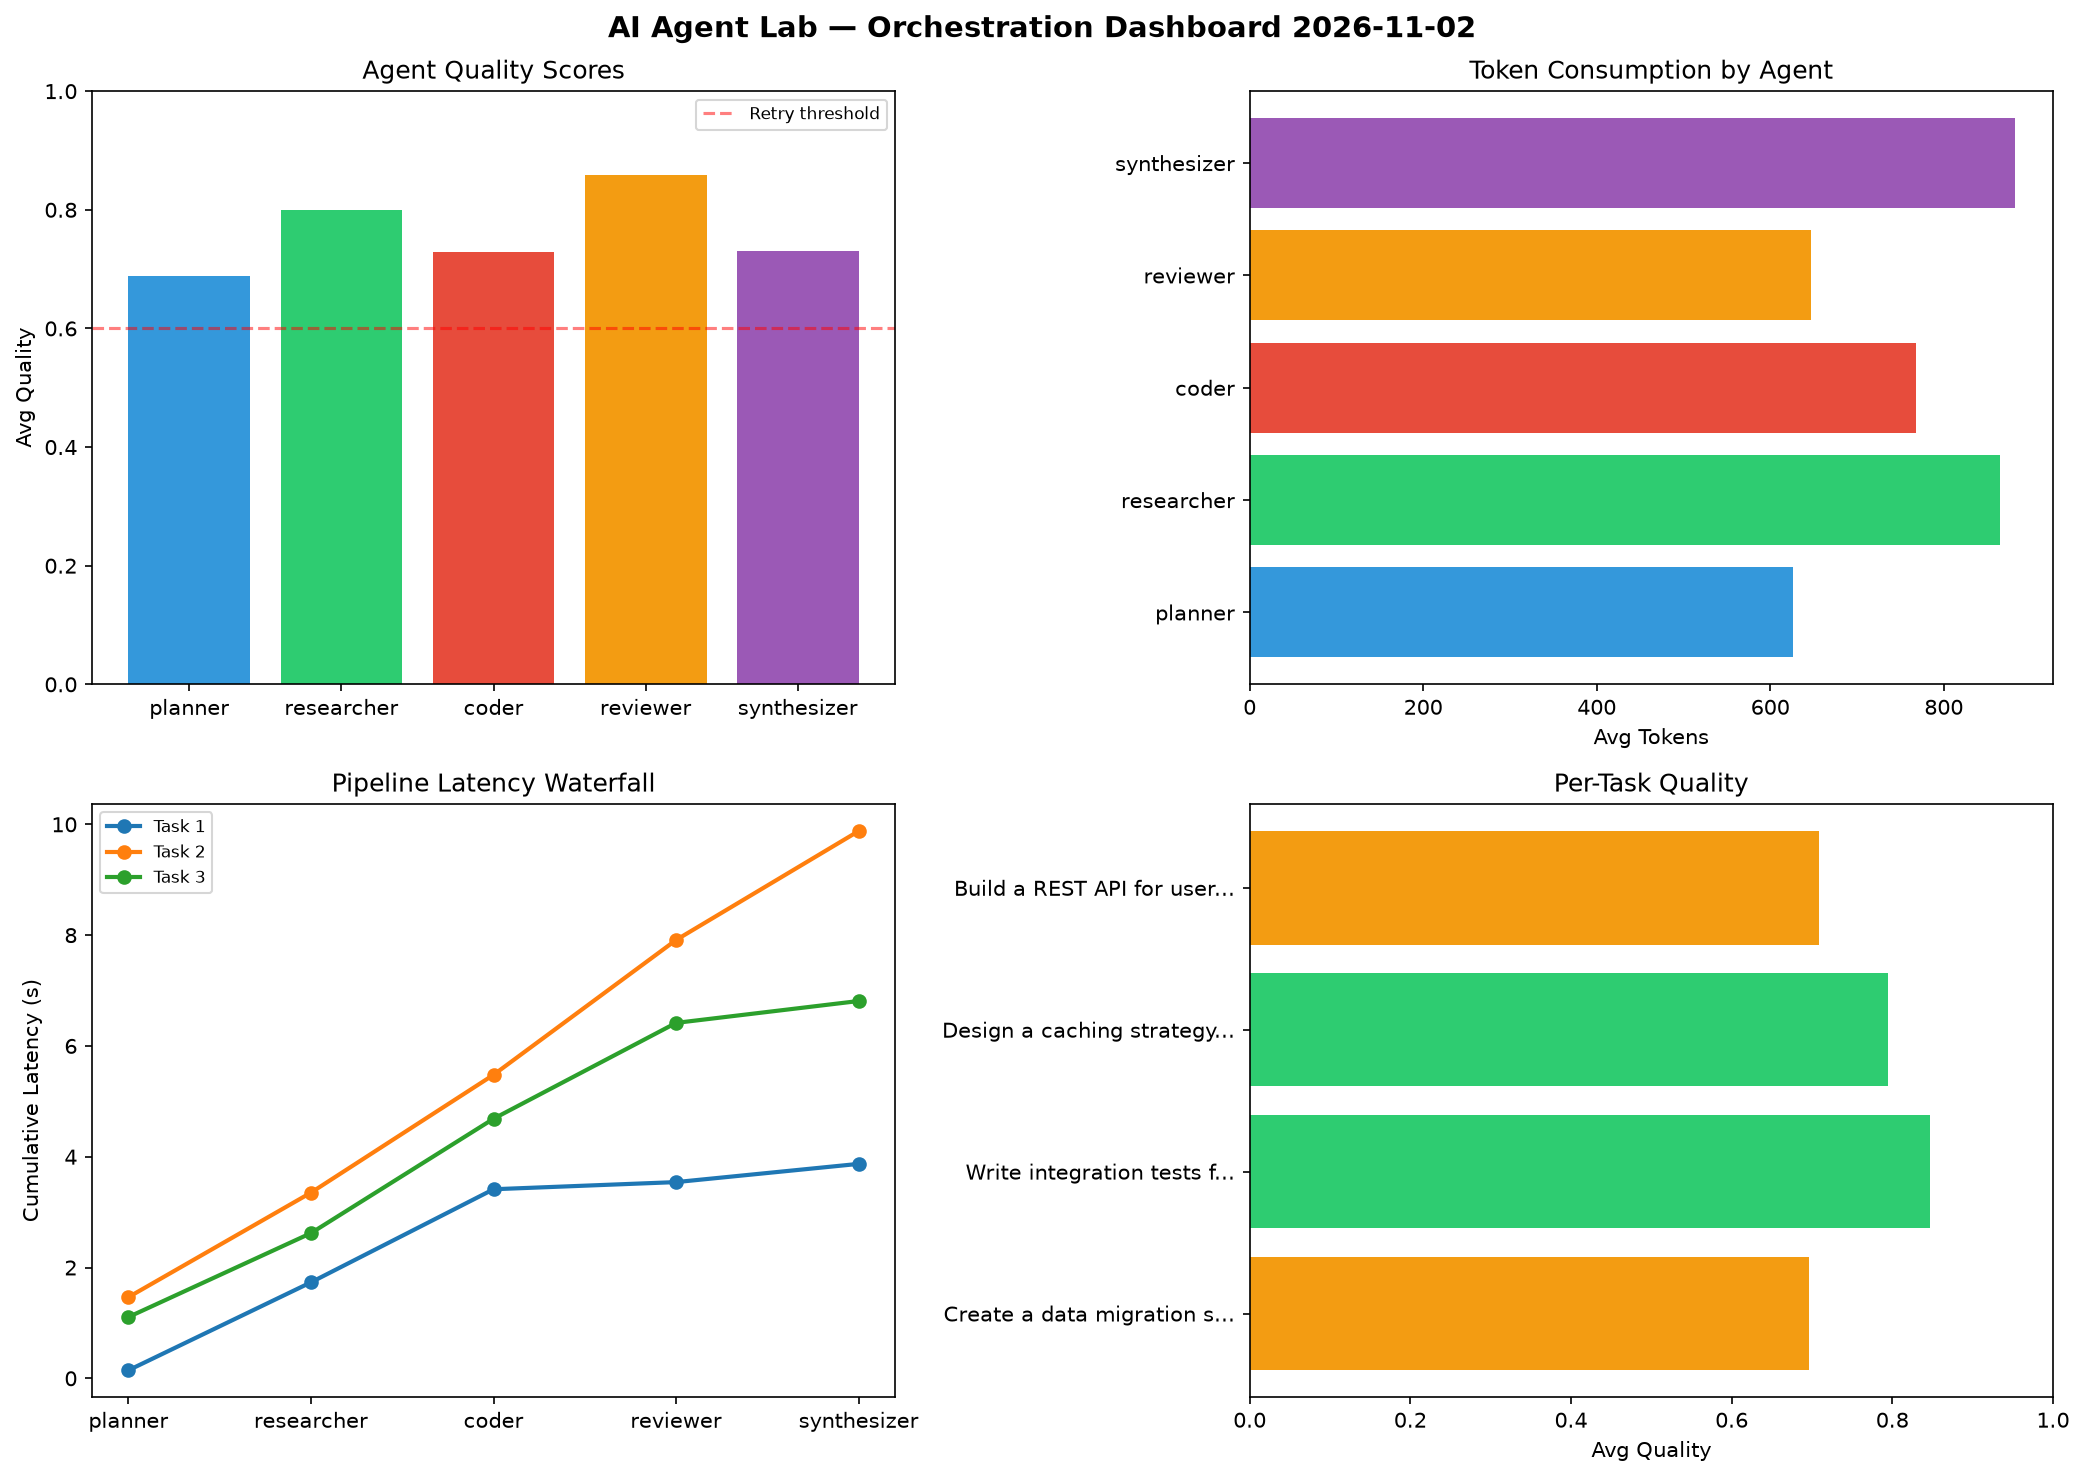
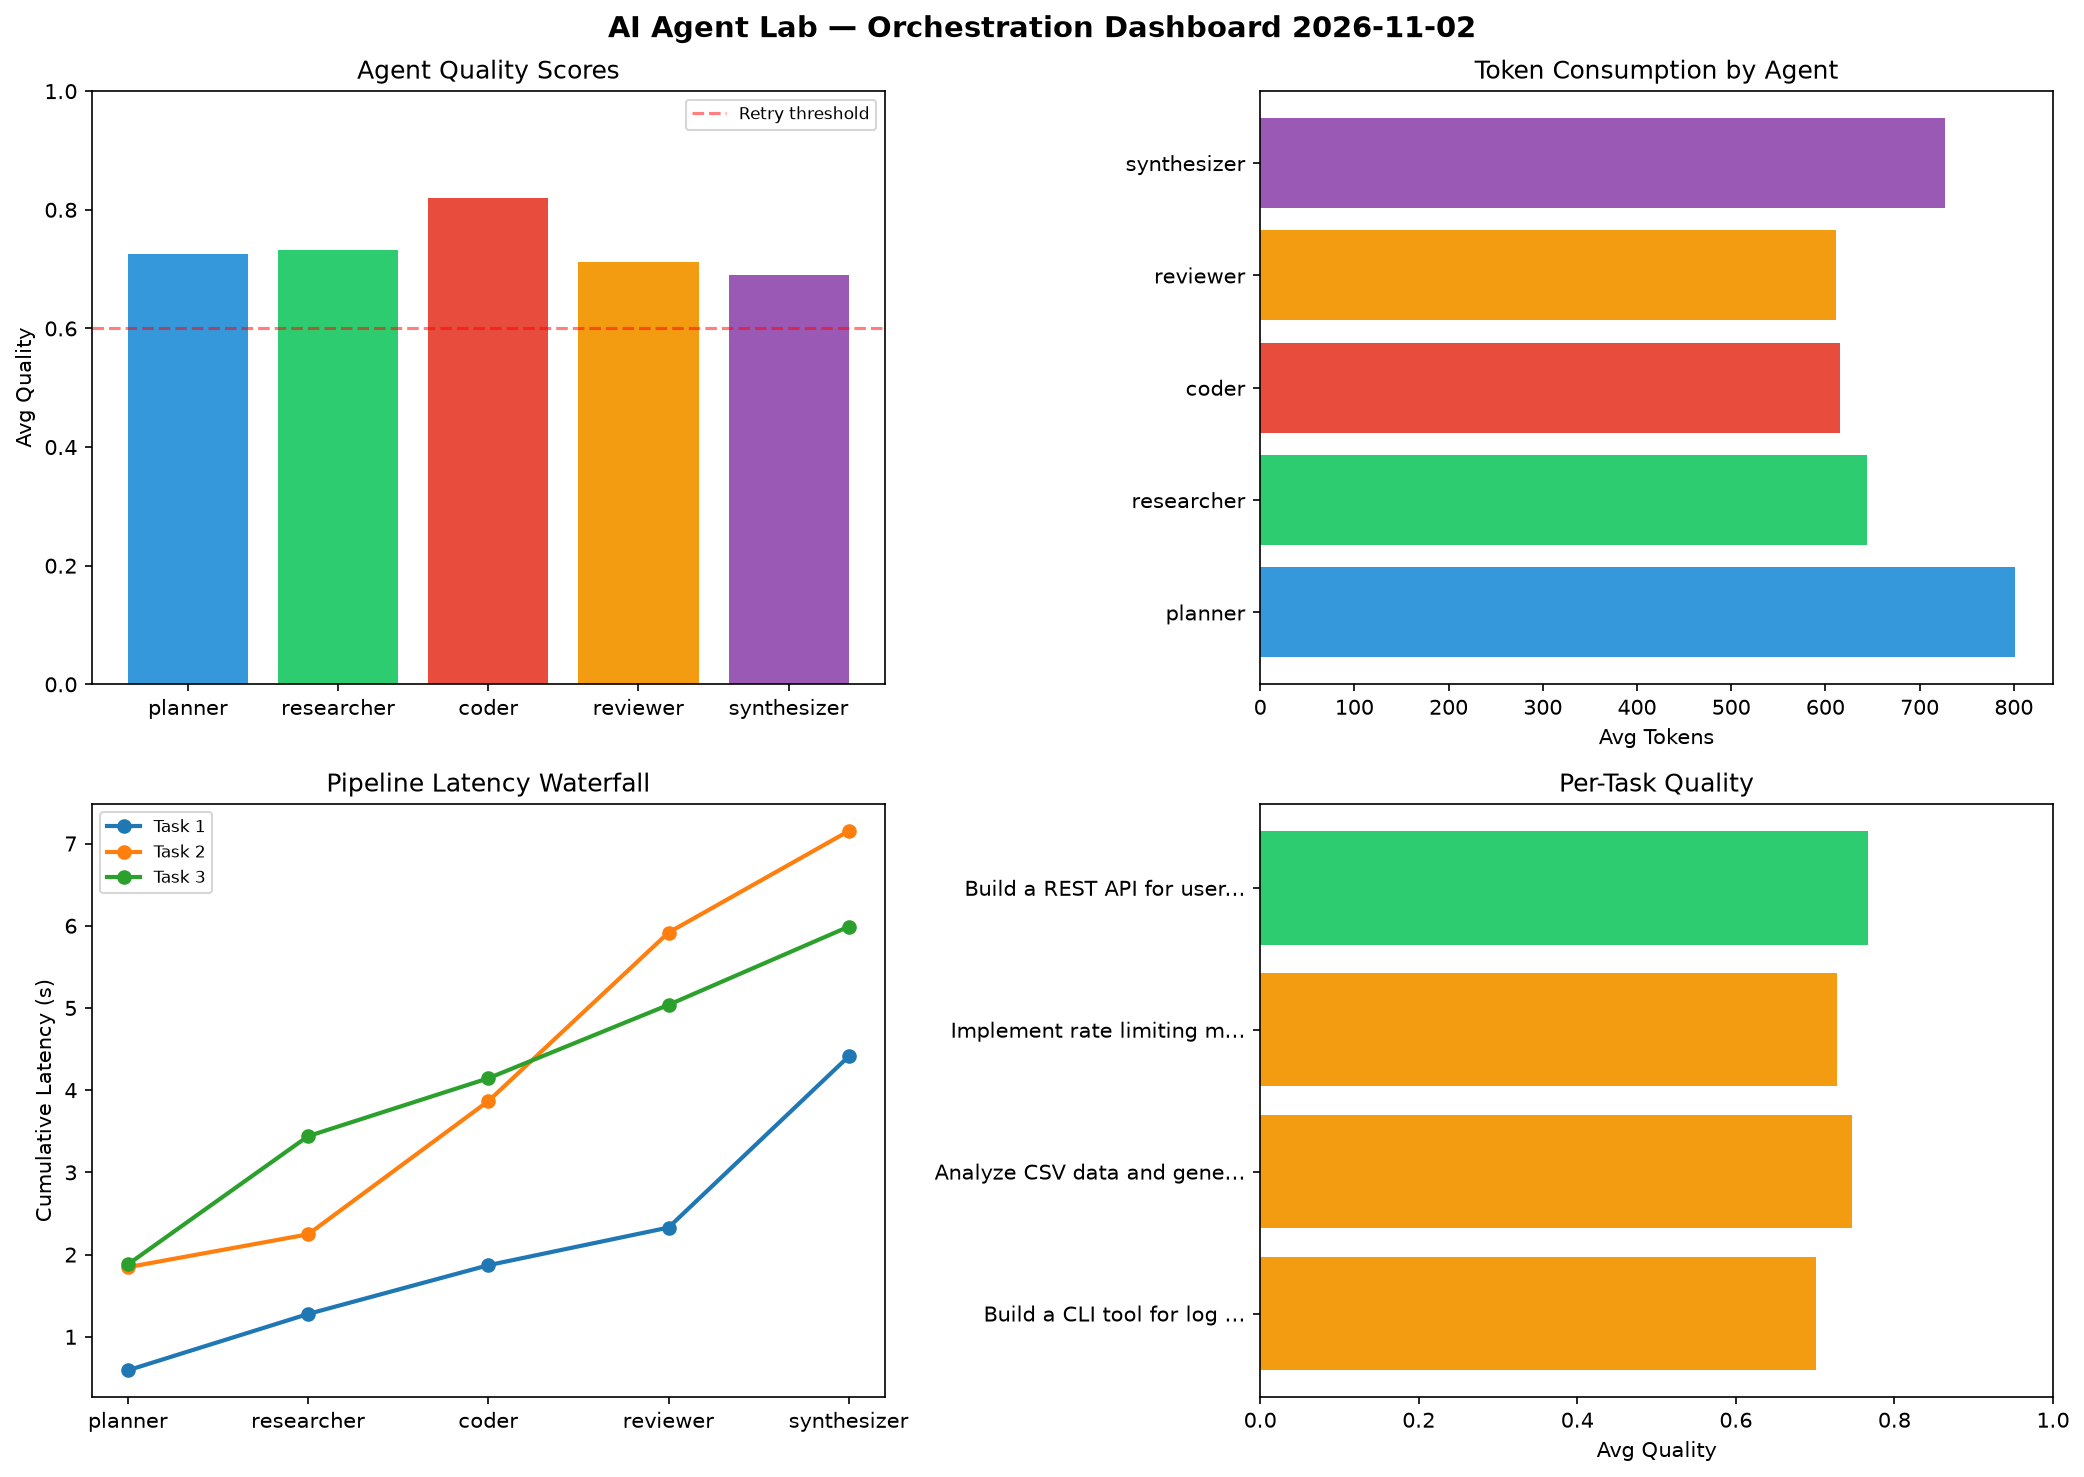
ai-agent-lab: orchestration run 2026-11-02T18:23

diff --git a/logs/2026-11-02.md b/logs/2026-11-02.md
@@ -1,6 +1,6 @@
 # AI Agent Lab — Orchestration Report 2026-11-02
 
-**Run ID:** `597a31176d` | **Tasks:** 4 | **Avg Quality:** 0.761
+**Run ID:** `745c24be91` | **Tasks:** 4 | **Avg Quality:** 0.735
 
 ![Dashboard](2026-11-02_dashboard.png)
 
@@ -8,52 +8,52 @@
 
 | Metric | Value |
 |--------|-------|
-| avg_latency | 6.921 |
-| total_tokens | 15151 |
-| avg_quality | 0.761 |
+| avg_latency | 5.591 |
+| total_tokens | 13596 |
+| avg_quality | 0.735 |
 
 ## Delta vs Yesterday
 
 | Metric | Today | Yesterday | Change |
 |--------|-------|-----------|--------|
-| avg_latency | 6.921 | 7.027 | 📉 -1.5% |
-| total_tokens | 15151 | 15696 | 📉 -3.5% |
-| avg_quality | 0.761 | 0.707 | 📈 7.6% |
+| avg_latency | 5.591 | 7.027 | 📉 -20.4% |
+| total_tokens | 13596 | 15696 | 📉 -13.4% |
+| avg_quality | 0.735 | 0.707 | 📈 4.0% |
 
 ## Pipeline Results
 
-### Create a data migration script for schema v2
+### Build a CLI tool for log analysis
 | Agent | Quality | Latency | Tokens | Status |
 |-------|---------|---------|--------|--------|
-| planner | 0.527 | 0.145s | 561 | needs_retry |
-| researcher | 0.739 | 1.588s | 686 | success |
-| coder | 0.516 | 1.68s | 1012 | needs_retry |
-| reviewer | 0.985 | 0.129s | 917 | success |
-| synthesizer | 0.713 | 0.329s | 874 | success |
+| planner | 0.834 | 0.593s | 1150 | success |
+| researcher | 0.7 | 0.685s | 902 | success |
+| coder | 0.582 | 0.593s | 570 | needs_retry |
+| reviewer | 0.865 | 0.458s | 881 | success |
+| synthesizer | 0.523 | 2.082s | 892 | needs_retry |
 
-### Write integration tests for payment processing module
+### Analyze CSV data and generate statistical summary
 | Agent | Quality | Latency | Tokens | Status |
 |-------|---------|---------|--------|--------|
-| planner | 0.871 | 1.465s | 553 | success |
-| researcher | 0.917 | 1.887s | 893 | success |
-| coder | 0.93 | 2.127s | 468 | success |
-| reviewer | 0.794 | 2.434s | 793 | success |
-| synthesizer | 0.725 | 1.966s | 1023 | success |
+| planner | 0.847 | 1.847s | 627 | success |
+| researcher | 0.51 | 0.4s | 841 | needs_retry |
+| coder | 0.947 | 1.62s | 551 | success |
+| reviewer | 0.544 | 2.05s | 721 | needs_retry |
+| synthesizer | 0.883 | 1.235s | 682 | success |
 
-### Design a caching strategy for high-traffic endpoints
+### Implement rate limiting middleware
 | Agent | Quality | Latency | Tokens | Status |
 |-------|---------|---------|--------|--------|
-| planner | 0.803 | 1.106s | 401 | success |
-| researcher | 0.919 | 1.515s | 764 | success |
-| coder | 0.738 | 2.065s | 951 | success |
-| reviewer | 0.866 | 1.73s | 447 | success |
-| synthesizer | 0.642 | 0.395s | 923 | success |
+| planner | 0.549 | 1.882s | 989 | needs_retry |
+| researcher | 0.771 | 1.559s | 640 | success |
+| coder | 0.796 | 0.704s | 584 | success |
+| reviewer | 0.676 | 0.893s | 432 | success |
+| synthesizer | 0.849 | 0.951s | 641 | success |
 
 ### Build a REST API for user authentication
 | Agent | Quality | Latency | Tokens | Status |
 |-------|---------|---------|--------|--------|
-| planner | 0.552 | 0.309s | 990 | needs_retry |
-| researcher | 0.627 | 0.558s | 1118 | success |
-| coder | 0.732 | 1.866s | 641 | success |
-| reviewer | 0.792 | 2.272s | 429 | success |
-| synthesizer | 0.843 | 2.118s | 707 | success |
+| planner | 0.67 | 0.173s | 440 | success |
+| researcher | 0.95 | 0.671s | 194 | success |
+| coder | 0.954 | 1.593s | 755 | success |
+| reviewer | 0.76 | 1.588s | 411 | success |
+| synthesizer | 0.503 | 0.787s | 693 | needs_retry |
